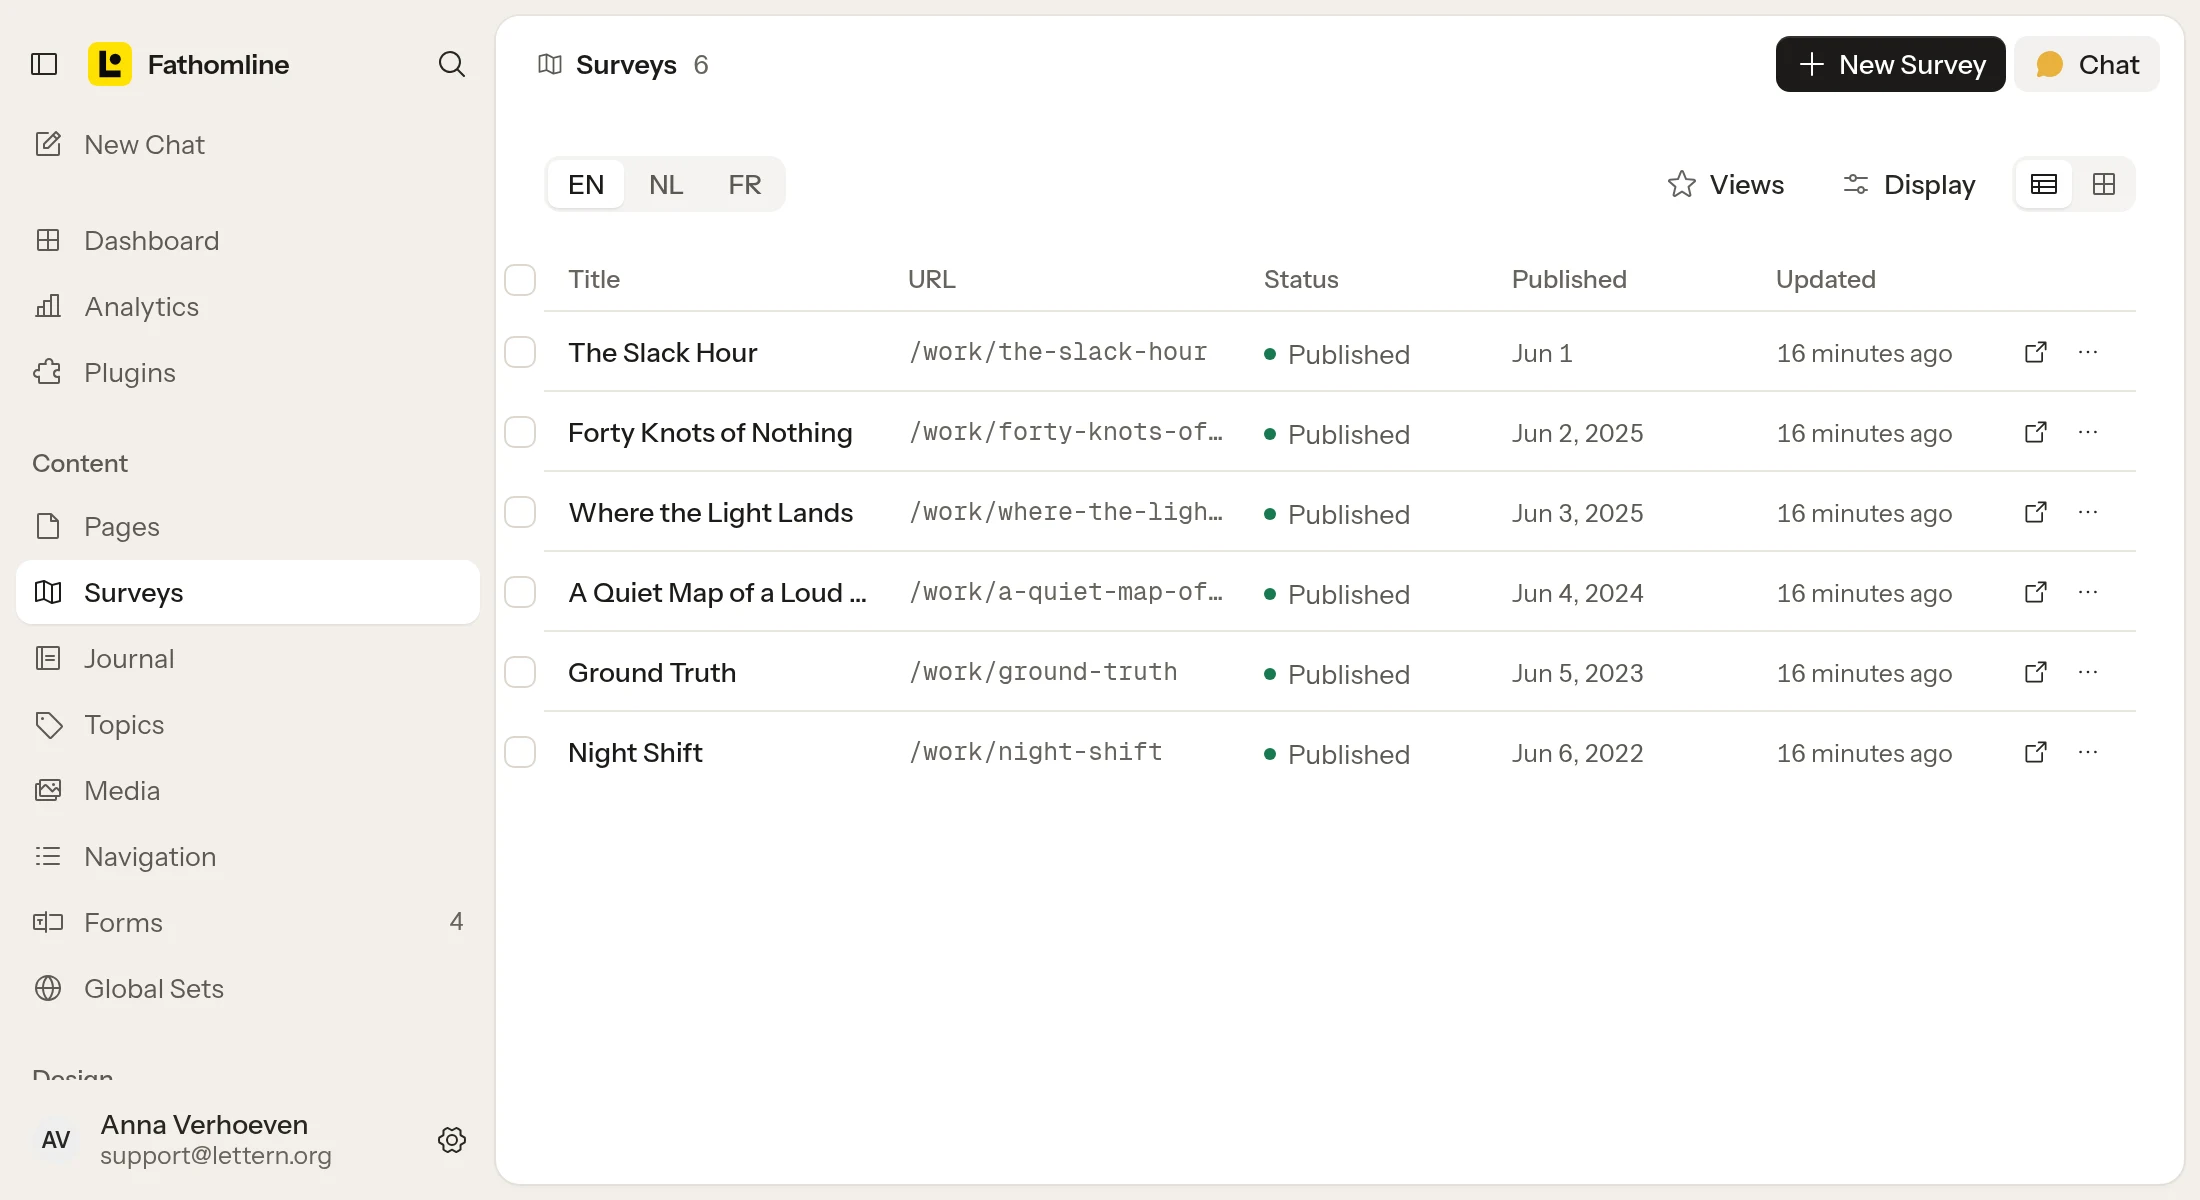
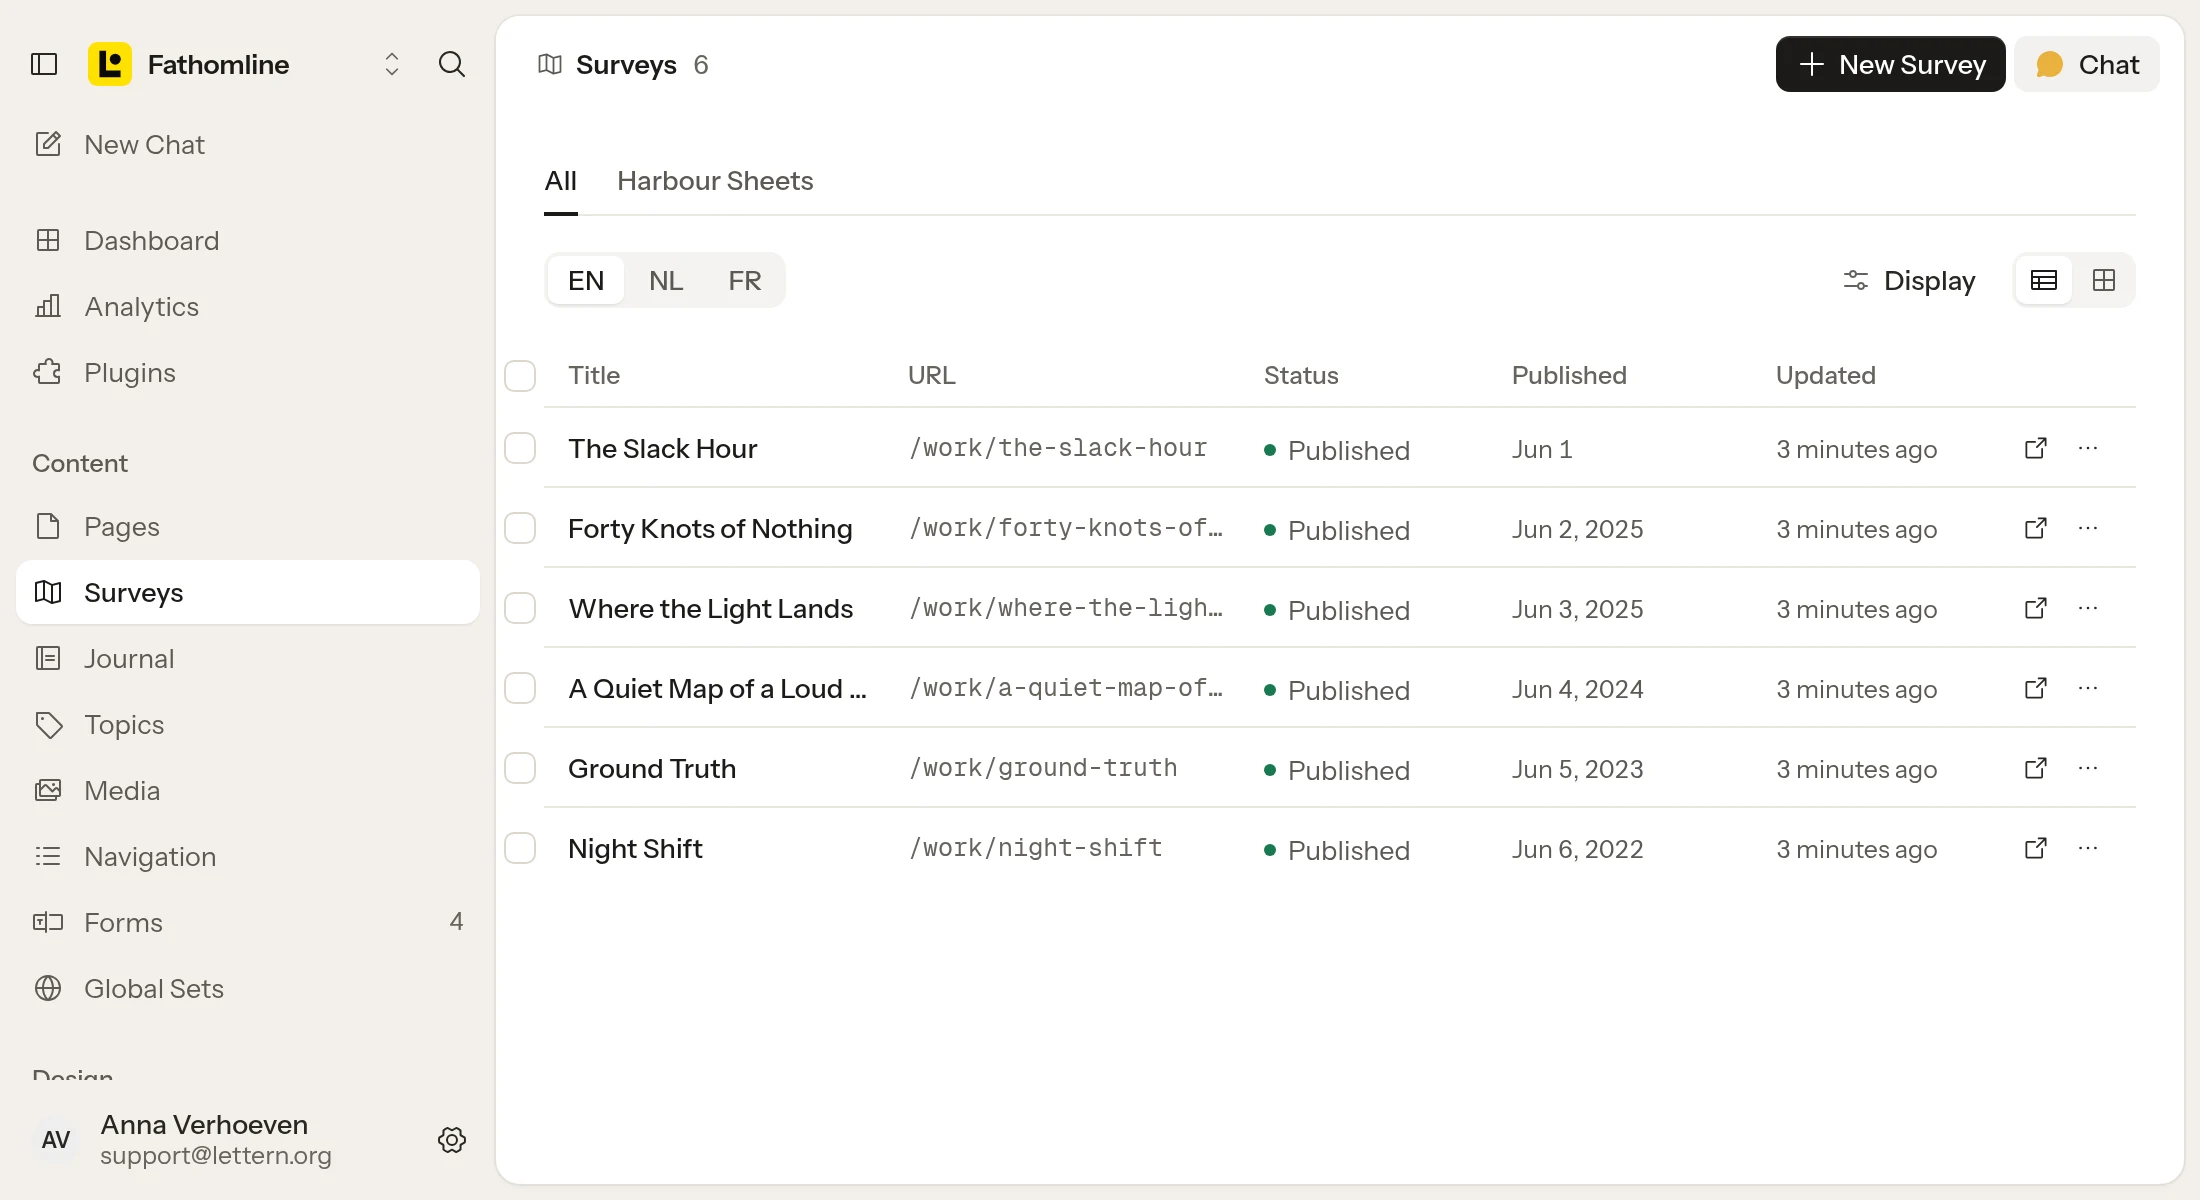
Describe saved views as tabs above a collection's list
Retakes the list's screenshot, which showed the old Views menu.

diff --git a/content/collections/docs/content/collections.md b/content/collections/docs/content/collections.md
@@ -71,7 +71,7 @@ Every collection can show its entries as a **Table**, a **Grid** of cards or a *
 
 ![The list of surveys in a table.](/media/screens/entries.webp)
 
-To keep more than one arrangement, press **Views**, beside **Display**, choose **Save View** and give it a name. It keeps what the list is narrowed to (status, language, search), its order, its columns and whether it is a table, a grid or a calendar. Choose a view in that menu to put the list back that way: the button then shows its name. **Rename View** and **Delete View** in the same menu work on any of your views: with more than one, they ask which. Views are yours alone and come with your account to every browser.
+To keep more than one arrangement, change the list and press **Save View** beside **Display**, then give it a name. It keeps what the list is narrowed to (status, language, search), its order, its columns and whether it is a table, a grid or a calendar. Your views show as tabs above the list, after **All**: choose one to put the list back that way. When you change the list on a view, its tab shows a dot and **Save View** offers to update it or save a new one; **Reset** puts it back. Choose the tab you are on to rename or delete that view. Views are yours alone and come with your account to every browser.
 
 To set the starting view for everyone, open the collection's **Settings** tab and use **Default Display**, then save. Anyone can go back to it with **Display → Reset Display**.
 
